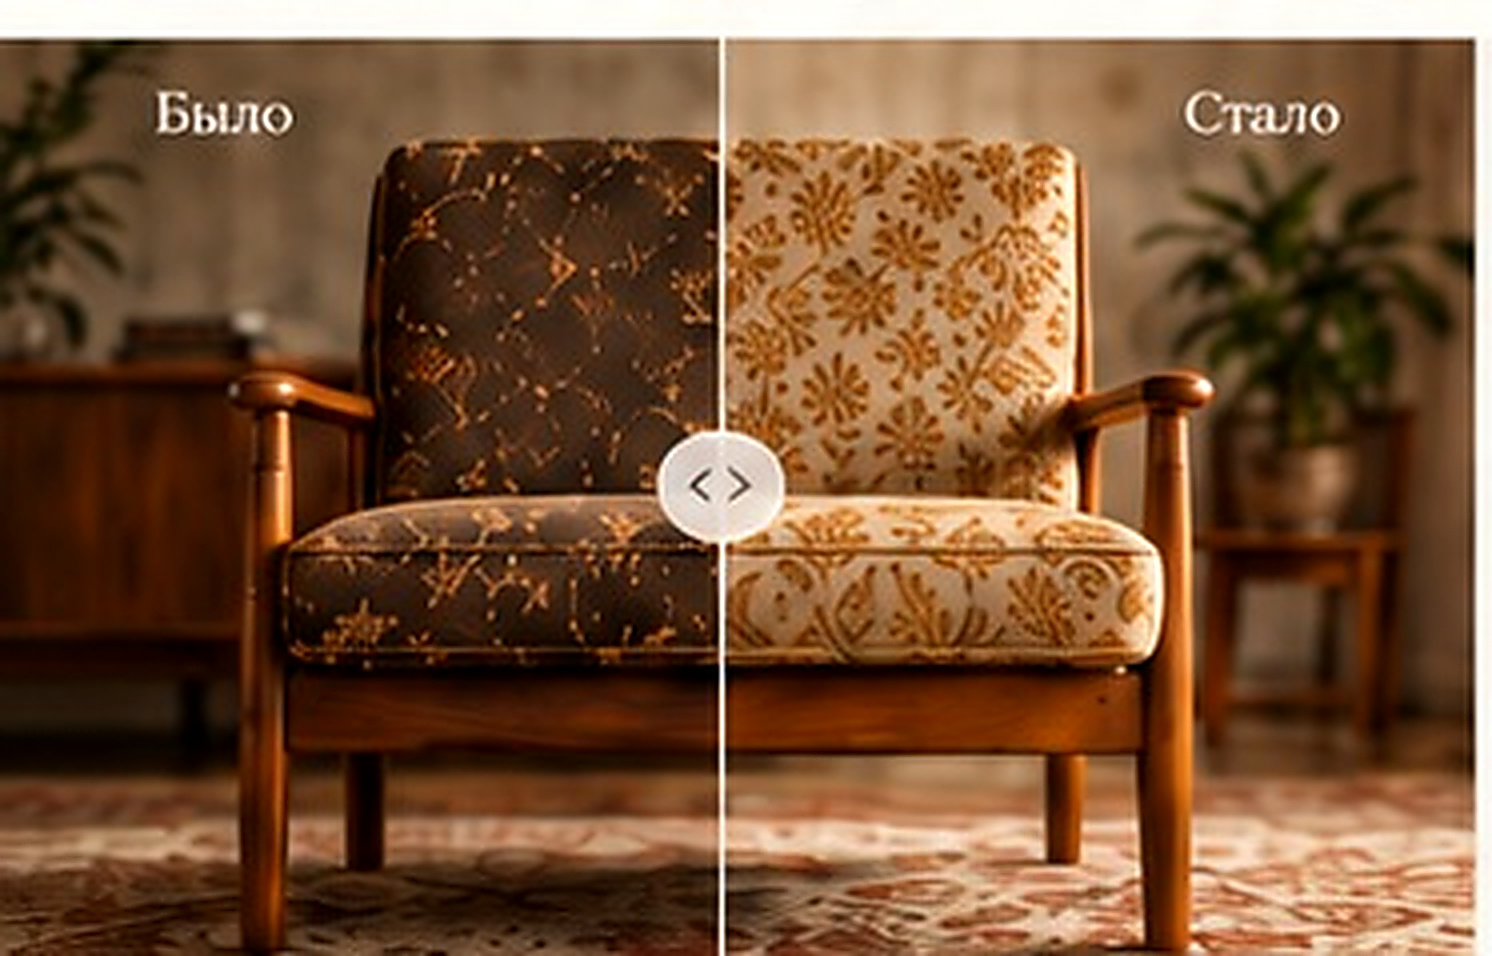
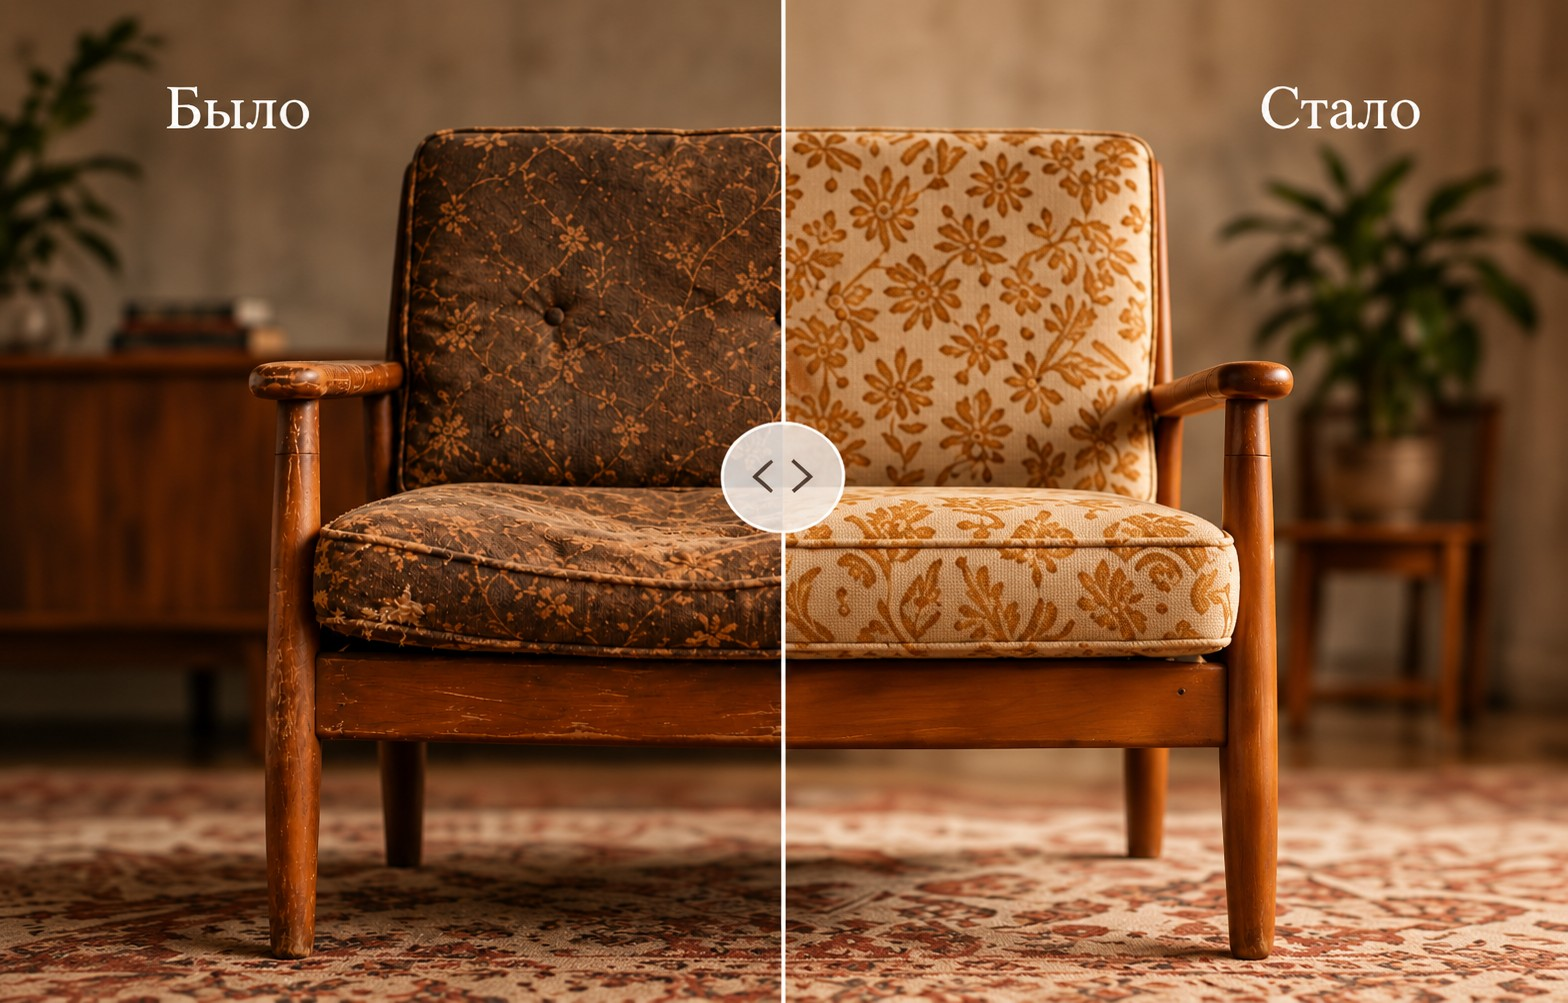
Update restoration image and approved intro heading

diff --git a/index.html b/index.html
@@ -66,7 +66,7 @@
 
     <section class="intro section" id="approach">
       <div class="container intro-inner">
-        <h2>Мы создаём дома для вещей с историей.</h2>
+        <h2>Пространство для вещей с историей.</h2>
         <p>Находим и подбираем предметы, восстанавливаем и бережно сохраняем ваши семейные вещи, а затем деликатно вписываем винтажную мебель в современные интерьеры.</p>
       </div>
     </section>
@@ -136,7 +136,7 @@
     <section class="craft-section">
       <div class="container craft-grid">
         <div class="restoration-visual">
-          <img src="assets/restoration.jpg" width="1492" height="956" alt="Кресло до и после реставрации" loading="lazy" decoding="async">
+          <img src="assets/restoration.jpg" width="1568" height="1003" alt="Кресло до и после реставрации" loading="lazy" decoding="async">
         </div>
         <div class="craft-copy">
           <p class="eyebrow dark">Реставрация</p>

diff --git a/sr/index.html b/sr/index.html
@@ -66,7 +66,7 @@
 
     <section class="intro section" id="approach">
       <div class="container intro-inner">
-        <h2>Stvaramo dom za stvari sa pričom.</h2>
+        <h2>Prostor za stvari sa pričom.</h2>
         <p>Pronalazimo i biramo predmete, obnavljamo i pažljivo čuvamo vaše porodične stvari, a zatim vintaž nameštaj diskretno uklapamo u savremene enterijere.</p>
       </div>
     </section>
@@ -136,7 +136,7 @@
     <section class="craft-section">
       <div class="container craft-grid">
         <div class="restoration-visual">
-          <img src="../assets/restoration.jpg" width="1492" height="956" alt="Fotelja pre i posle restauracije" loading="lazy" decoding="async">
+          <img src="../assets/restoration.jpg" width="1568" height="1003" alt="Fotelja pre i posle restauracije" loading="lazy" decoding="async">
         </div>
         <div class="craft-copy">
           <p class="eyebrow dark">Restauracija</p>
